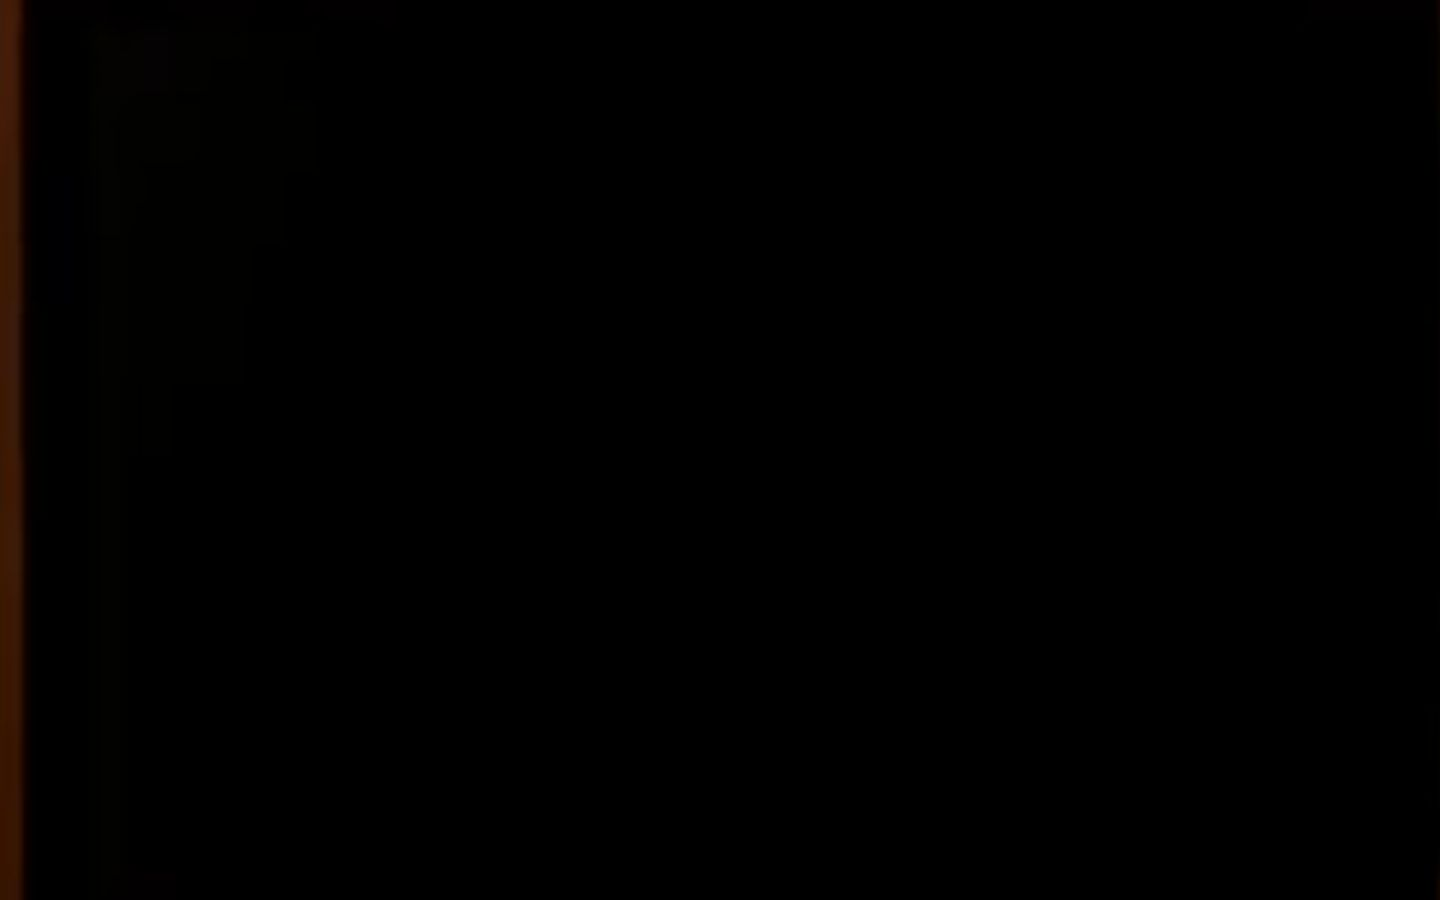
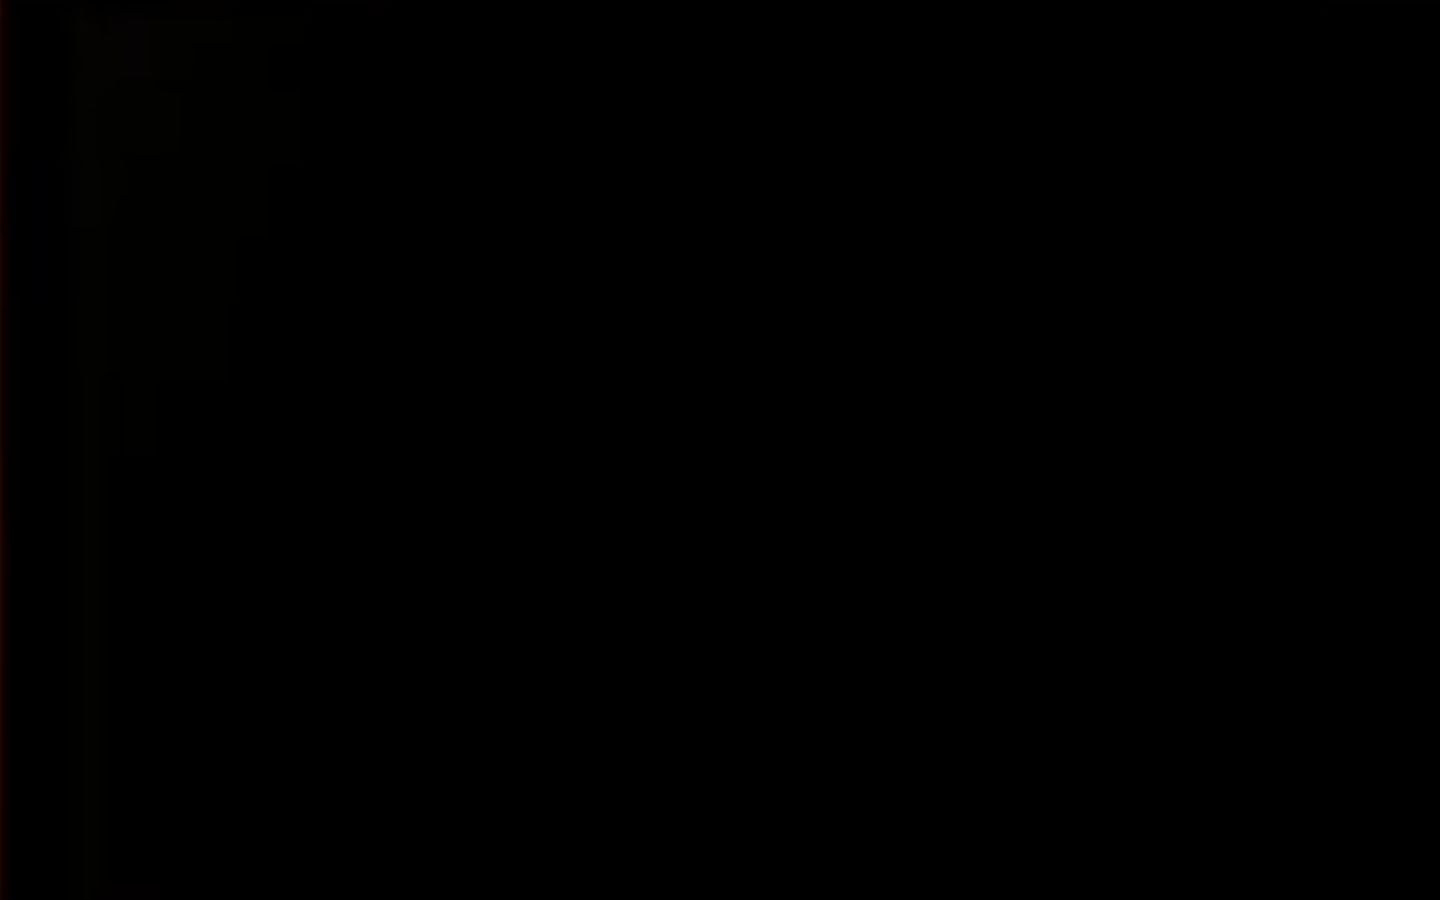
Lock intro page reveal to native size

Changed region(s): [[0.0, 0.0, 0.0312, 1.0]]

diff --git a/website/src/components/WebsiteIntroPrototype.module.css b/website/src/components/WebsiteIntroPrototype.module.css
@@ -82,8 +82,9 @@
   z-index: 2;
   overflow: hidden;
   opacity: 0;
+  transform: none;
   background: var(--color-ebony);
-  will-change: filter, opacity, transform;
+  will-change: filter, opacity;
 }
 
 .screenPortal img {
@@ -403,37 +404,31 @@
   42% {
     filter: brightness(0.04) saturate(0.72) blur(28px);
     opacity: 0;
-    transform: scale(1.04);
   }
 
   50% {
     filter: brightness(0.12) saturate(0.76) blur(24px);
     opacity: 1;
-    transform: scale(1.035);
   }
 
   68% {
     filter: brightness(0.38) saturate(0.84) blur(15px);
     opacity: 1;
-    transform: scale(1.025);
   }
 
   84% {
     filter: brightness(0.76) saturate(0.94) blur(6px);
     opacity: 1;
-    transform: scale(1.01);
   }
 
   95% {
     filter: brightness(1) saturate(1) blur(0);
     opacity: 1;
-    transform: scale(1);
   }
 
   100% {
     filter: brightness(1) saturate(1) blur(0);
     opacity: 1;
-    transform: scale(1);
   }
 }
 

diff --git a/website/src/components/WebsiteIntroPrototype.tsx b/website/src/components/WebsiteIntroPrototype.tsx
@@ -69,7 +69,7 @@ const realisticCurtainAssets = {
 };
 
 const realisticHomepageAsset = withSiteBasePath(
-  "/prototype/issue-98/variant-a-homepage-live-desktop.png",
+  "/prototype/issue-98/variant-a-homepage-live-exact-1440x900.png",
 );
 
 const realisticJourneyVideo = withSiteBasePath(

diff --git a/website/design-qa.md b/website/design-qa.md
@@ -12,7 +12,7 @@ Implementation URLs: `http://localhost:4173/fotohvn?variant=A` and `http://local
 - Physical-anatomy authority: `prototype-qa/issue-98/references/real-booth-open-doorway-reference.png` and `prototype-qa/issue-98/references/real-booth-left-wall-screen-reference.png`.
 - Retained idle exterior: `public/prototype/issue-98/variant-a-real-booth-closed.png`.
 - Selected desktop journey asset: `public/prototype/issue-98/variant-a-generated-journey-desktop.mp4` (1920 x 1080, 5.125 seconds), with `public/prototype/issue-98/video-generator-pack-16x9/01-exterior-closed-1920x1080.png` as the matching desktop poster.
-- Faithful physical-screen content: `public/prototype/issue-98/variant-a-homepage-live-desktop.png`, captured from the real server-rendered homepage at 1440 x 900 CSS/image px.
+- Faithful post-video content: `public/prototype/issue-98/variant-a-homepage-live-exact-1440x900.png`, normalized from the real server-rendered homepage to exactly 1440 x 900 image px for a 1:1 DPR-1 reveal.
 - Browser implementation evidence: `prototype-qa/issue-98/video-flow-video-end-1440x900.png`, `video-flow-black-takeover-1440x900.png`, `video-flow-develop-dark-1440x900.png`, `video-flow-focus-pull-1440x900.png`, `video-flow-sharp-capture-1440x900.png`, and `video-flow-final-live-1440x900.png`.
 - Viewport and density: 1440 x 900 CSS px at DPR 1; browser captures are 1440 x 900 image px. No density normalization was required.
 - States: idle exterior, left-biased threshold, inside left-wall assembly, physical-screen hold, screen push, completed live homepage, Skip, Escape, pointer entry, CUA keyboard entry, URL-selected variants, and A/B switching.
@@ -105,6 +105,13 @@ Fixes: kept the threshold above full-bleed scale throughout; held the interior r
 - The first repaired ending faded the screenshot against the live page and briefly doubled typography. The final repair holds the crisp capture fully opaque until the intro unmounts; `video-flow-sharp-capture-1440x900.png` and `video-flow-final-live-1440x900.png` are pixel-identical.
 - Actual browser CUA Tab reached Skip and Enter; CUA Enter completed the full video and post-video transition; Escape dismissed during video playback. Pointer Skip, final focus, scroll restoration, inert cleanup, Variant B completion, zero horizontal overflow, and a clean browser console also passed.
 - The selected storyboard/browser comparison contains no remaining actionable P0, P1, or P2 mismatch.
+
+### Pass 6 - passed after native-size reveal correction
+
+- The user observed the homepage adjusting its size while it developed from black. Evidence confirmed two causes: the earlier capture was 1425 x 891 and the reveal keyframes scaled the page from 1.04 to 1.
+- Replaced the transition source with an exact 1440 x 900 homepage capture and removed every homepage transform from the development/focus animation. Only opacity, brightness, saturation, and blur now change.
+- Fresh browser measurements at both development and focus-pull states report a 1440 x 900 portal, a 1440 x 900 natural/client image, and computed `transform: none`.
+- Rebuilt `video-flow-selected-storyboard-comparison.png` from the corrected browser captures. The crisp capture and final live-page screenshots remain pixel-identical, with no new P0, P1, or P2 finding.
 
 ## Follow-up polish
 

diff --git a/website/.handoffs/issue-98-approved-desktop-intro-direction.md b/website/.handoffs/issue-98-approved-desktop-intro-direction.md
@@ -101,7 +101,7 @@ The approved camera moves left and excludes the right/rear background. The user'
   - a close left-wall screen assembly view with a clearly bounded physical display.
 - Do not enlarge a low-resolution crop until it pixelates.
 - Avoid a visibly swapped curtain texture, giant curtain close-up, disconnected rail layer, CSS fold simulation, or abrupt cut between unrelated perspectives.
-- For the post-video handoff, reuse the faithful real-homepage capture full-viewport only after black takeover, then match it into the live page. Do not place it inside the bounded physical display or insert generic placeholder UI.
+- For the post-video handoff, reuse the exact `1440 x 900` real-homepage capture full-viewport only after black takeover, then match it into the live page. Keep that capture at its final viewport geometry from its first visible frame; animate only exposure, opacity, and focus, never scale or reflow. Do not place it inside the bounded physical display or insert generic placeholder UI.
 - Keep the homepage server-rendered underneath and preserve progressive-enhancement behavior.
 - Keep Variant B (`?variant=B`) unchanged. It remains an alternate prototype, not the selected implementation direction.
 
